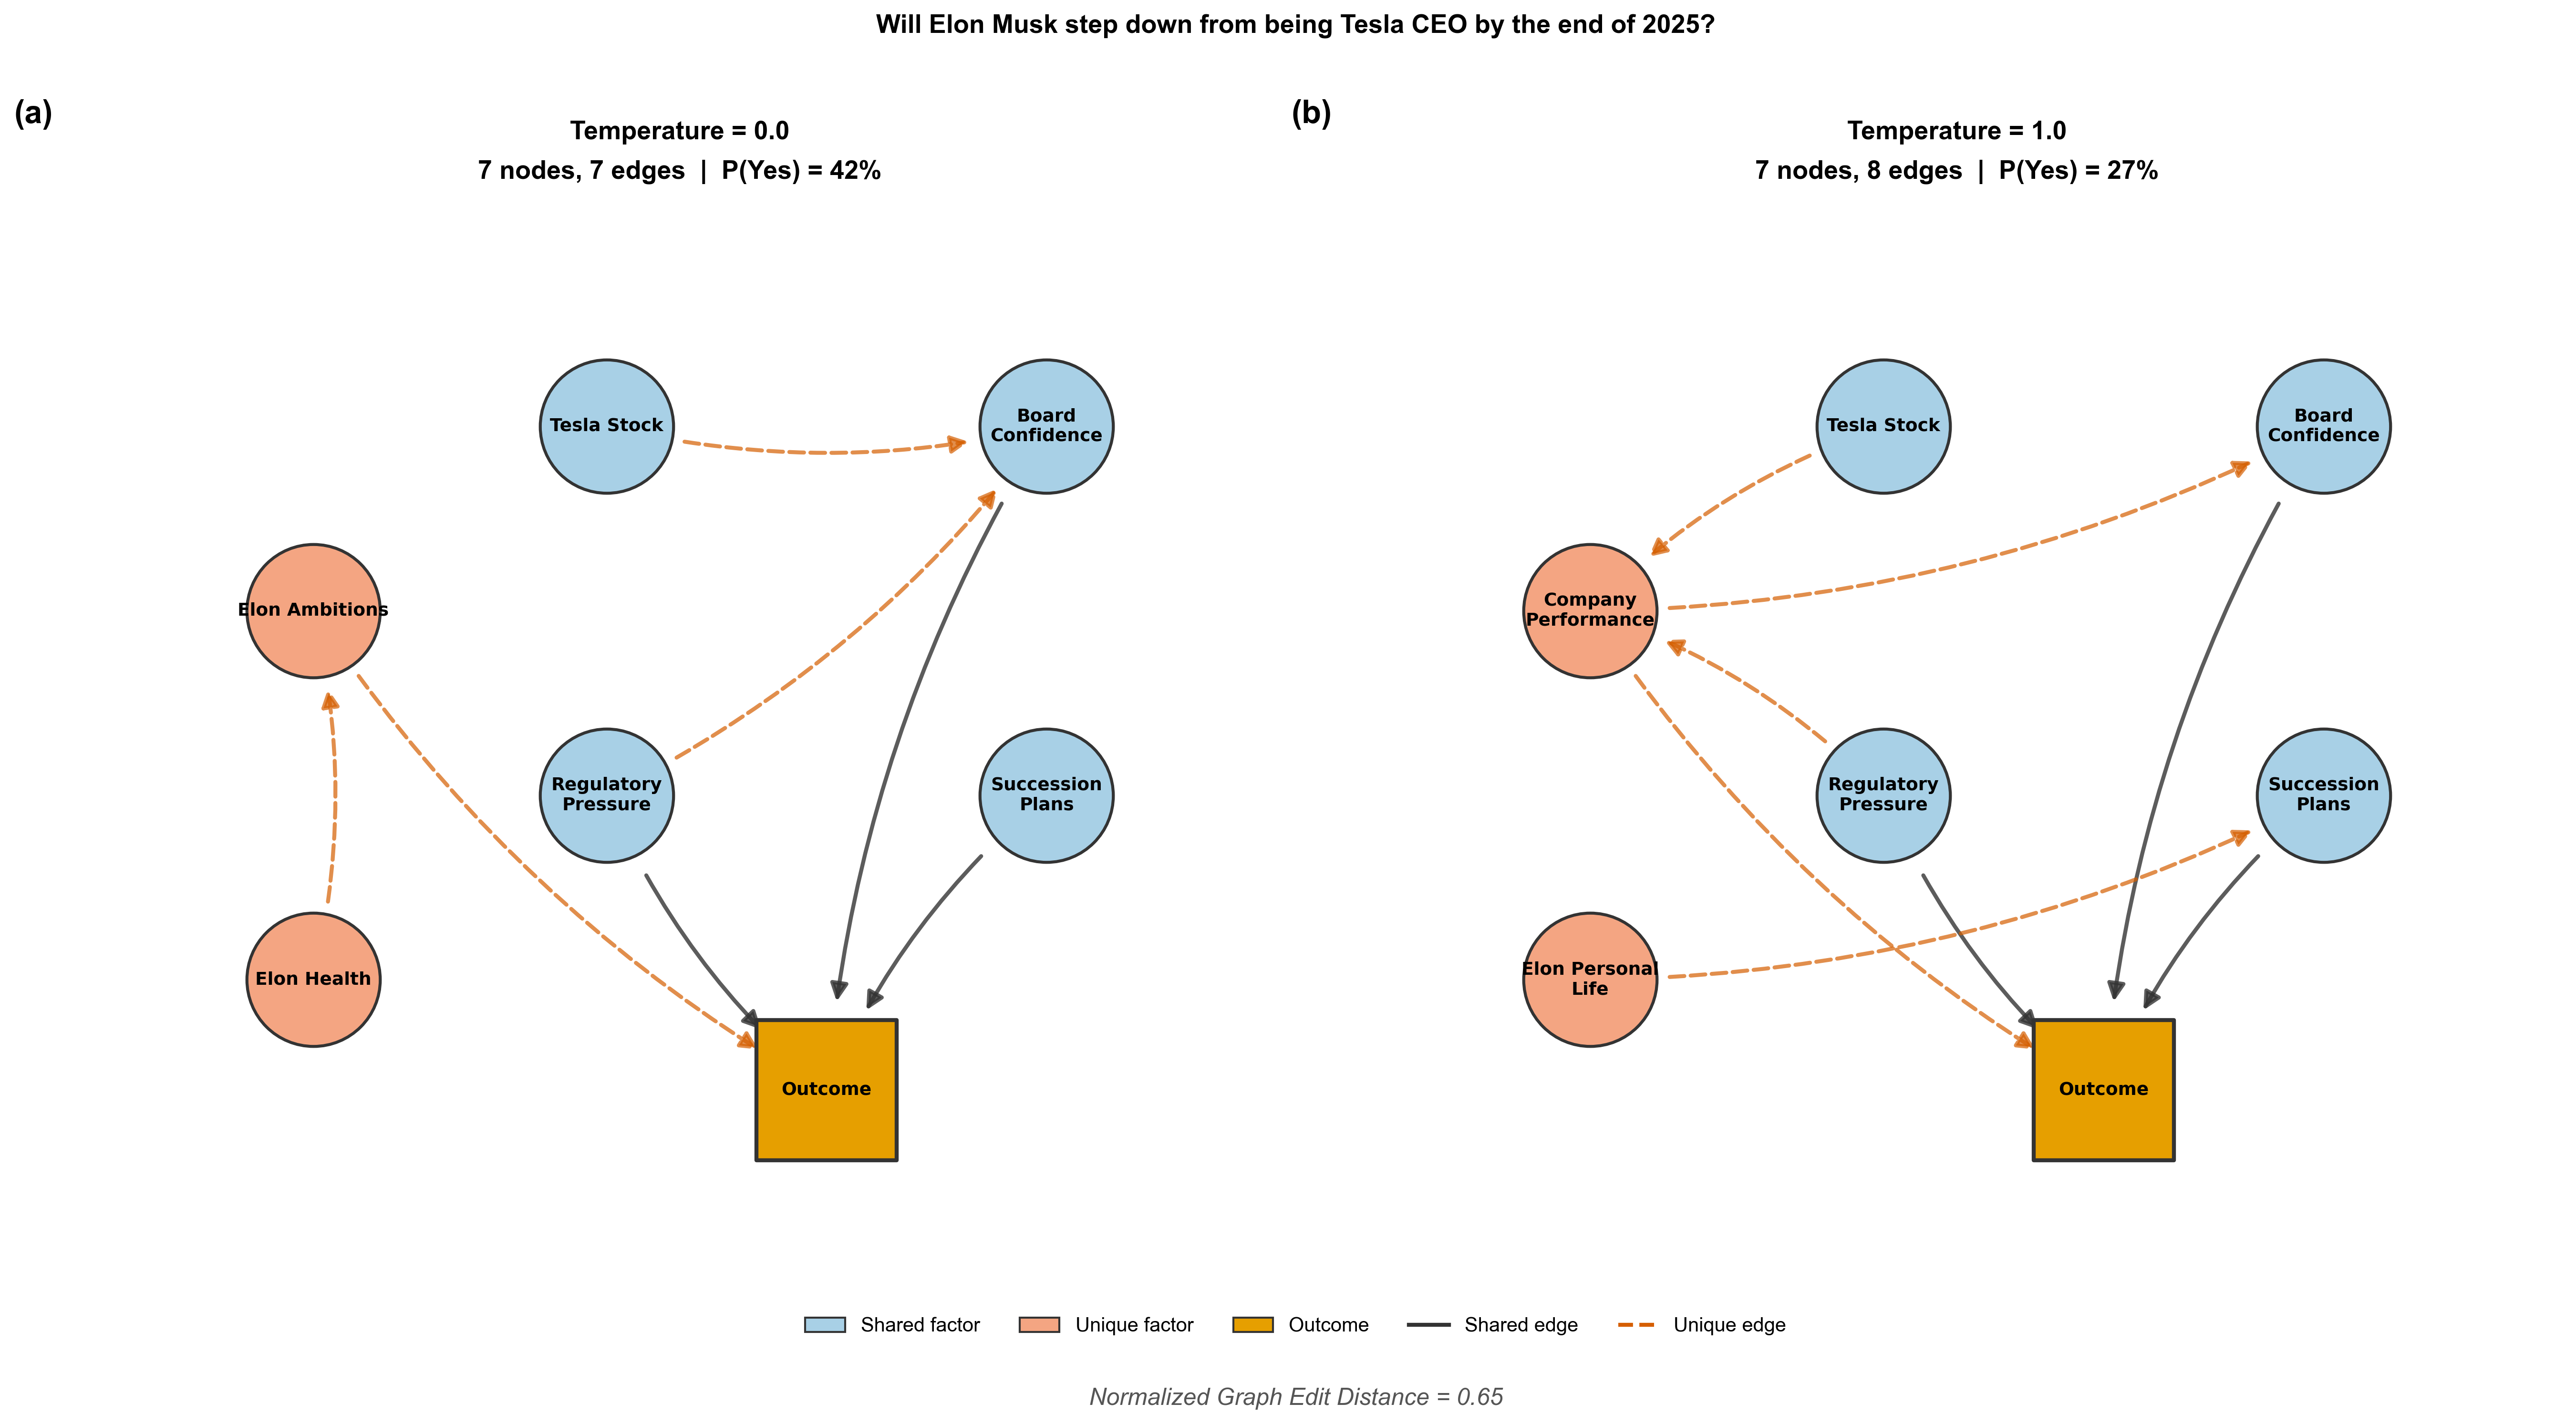
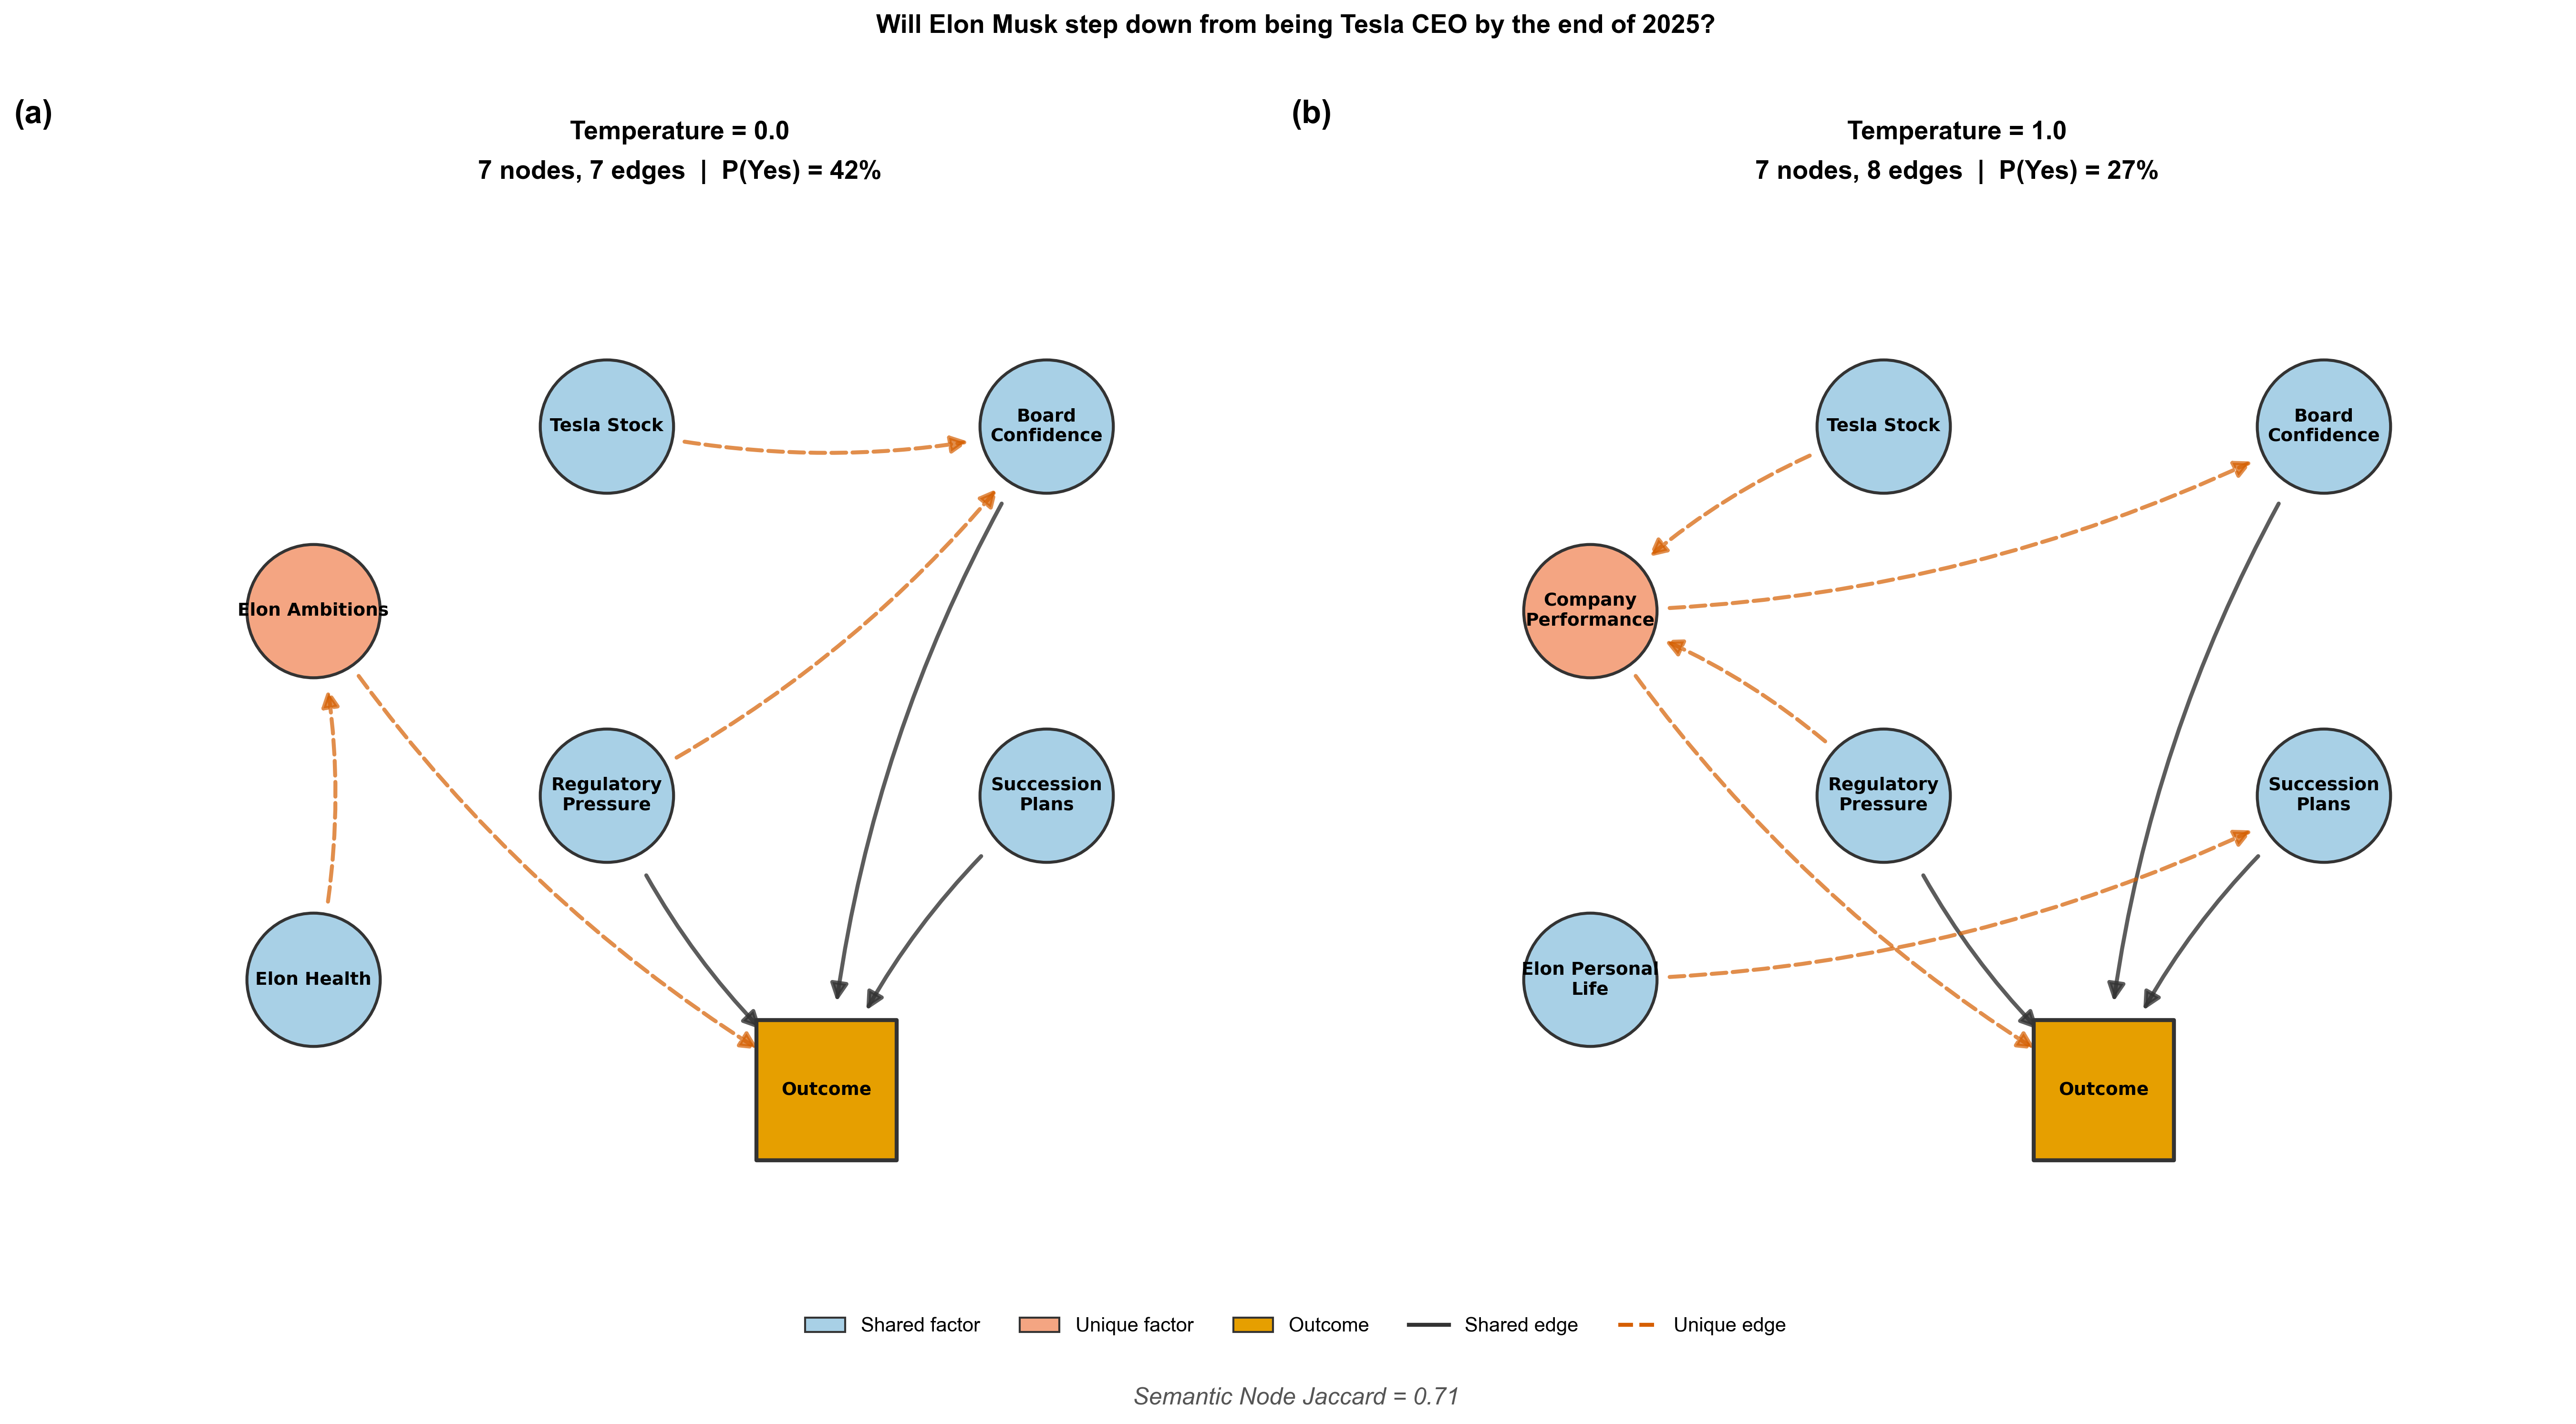
Update temperature figures with semantic matching, fix cache save
Temperature sensitivity: 3-panel figure with (a) Spearman rho of
initial probabilities, (b) semantic node Jaccard, (c) semantic edge
Jaccard across temperature pairs. Replaces nGED with embedding-based
semantic matching.

Temperature exemplar pair: use semantic matching for shared/unique
node coloring. elon_health ↔ elon_personal_life now correctly shown
as shared. Subtitle shows semantic Jaccard instead of nGED.

Fix _save_cache in semantic_graph_match.py: use shutil.move and
correct temp file naming for np.savez_compressed on Windows.

Changed region(s): [[0.0933, 0.6229, 0.1555, 0.7475], [0.591, 0.6229, 0.6532, 0.7475], [0.4355, 0.9655, 0.591, 0.9967]]

diff --git a/forecast_bench/run_temperature_sensitivity.py b/forecast_bench/run_temperature_sensitivity.py
@@ -418,15 +418,51 @@ def _plot_exemplar_pair(temp_data, available_temps, shared_all):
     d_lo = temp_data[T_LO][EXEMPLAR_QID]
     d_hi = temp_data[T_HI][EXEMPLAR_QID]
 
-    # Shared node IDs (excluding outcome)
-    nodes_lo = {n["id"] for n in d_lo["nodes"] if n.get("role") != "outcome"}
-    nodes_hi = {n["id"] for n in d_hi["nodes"] if n.get("role") != "outcome"}
-    shared_nodes = nodes_lo & nodes_hi
+    # Semantic matching for shared nodes
+    from forecast_bench.semantic_graph_match import semantic_jaccard_pair
+    nodes_lo_list = [n for n in d_lo["nodes"] if n.get("role") != "outcome"]
+    nodes_hi_list = [n for n in d_hi["nodes"] if n.get("role") != "outcome"]
 
-    # Compute nGED for subtitle
+    try:
+        sem = semantic_jaccard_pair(
+            nodes_lo_list, nodes_hi_list,
+            edges1=d_lo.get("edges", []), edges2=d_hi.get("edges", []),
+            condition1="temp0.0", condition2="temp1.0",
+            qid=EXEMPLAR_QID,
+        )
+        sem_jaccard = sem["node_jaccard"]
+    except Exception:
+        sem_jaccard = 0.0
+
+    # Build shared set via semantic matching
+    from forecast_bench.semantic_graph_match import (
+        _ensure_embeddings, _cosine_matrix, _hungarian_match,
+        _get_api_key, NODE_EMB_CACHE, NODE_EMB_KEYS_CACHE,
+    )
+    api_key = _get_api_key()
+    texts = {}
+    for n in nodes_lo_list:
+        texts[f"node|{EXEMPLAR_QID}|temp0.0|{n['id']}"] = f"{n['id']}: {n.get('description', n['id'])}"
+    for n in nodes_hi_list:
+        texts[f"node|{EXEMPLAR_QID}|temp1.0|{n['id']}"] = f"{n['id']}: {n.get('description', n['id'])}"
+    idx, mat = _ensure_embeddings(texts, NODE_EMB_CACHE, NODE_EMB_KEYS_CACHE, api_key)
+    v_lo = mat[np.array([idx[f"node|{EXEMPLAR_QID}|temp0.0|{n['id']}"] for n in nodes_lo_list])]
+    v_hi = mat[np.array([idx[f"node|{EXEMPLAR_QID}|temp1.0|{n['id']}"] for n in nodes_hi_list])]
+    sim = _cosine_matrix(v_lo, v_hi)
+    matches = _hungarian_match(sim, threshold=0.7)
+
+    # Map: lo_id -> hi_id for matched pairs
+    shared_nodes_lo = set()
+    shared_nodes_hi = set()
+    for m in matches:
+        shared_nodes_lo.add(nodes_lo_list[m[0]]["id"])
+        shared_nodes_hi.add(nodes_hi_list[m[1]]["id"])
+    # Union for coloring
+    shared_nodes = shared_nodes_lo | shared_nodes_hi
+
+    # Edge comparison (string-based, since edges reference node IDs)
     edges_lo_set = {(e["from"], e["to"]) for e in d_lo["edges"]}
     edges_hi_set = {(e["from"], e["to"]) for e in d_hi["edges"]}
-    nged = normalized_ged(nodes_lo, edges_lo_set, nodes_hi, edges_hi_set)
     shared_edge_set = edges_lo_set & edges_hi_set
 
     # ── Build unified layout from union graph ──
@@ -548,7 +584,7 @@ def _plot_exemplar_pair(temp_data, available_temps, shared_all):
                fontsize=10, frameon=False, bbox_to_anchor=(0.5, -0.02))
 
     # nGED annotation
-    fig.text(0.5, -0.06, f"Normalized Graph Edit Distance = {nged:.2f}",
+    fig.text(0.5, -0.06, f"Semantic Node Jaccard = {sem_jaccard:.2f}",
              ha="center", fontsize=12, fontstyle="italic", color="#555")
 
     plt.tight_layout()

diff --git a/forecast_bench/run_scrambled_full.py b/forecast_bench/run_scrambled_full.py
@@ -294,23 +294,30 @@ def run_scrambled_full(args):
         save_question_json(results_dir, qid, q_output)
 
         # Write CSV rows
-        for result in probe_results:
+        for pi, result in enumerate(probe_results):
             csv_writer.writerow({
                 "question_id": qid,
                 "question_text": question["question"][:200],
-                "source": question.get("source", ""),
+                "condition": "scrambled_full",
                 "initial_probability": initial_prob,
+                "probe_index": pi,
                 "probe_type": result.get("probe_type", ""),
-                "probe_text": result.get("probe_text", "")[:500],
-                "target_type": result.get("target_type", ""),
+                "probe_category": result.get("probe_category", ""),
                 "target_id": result.get("target_id", ""),
-                "importance": result.get("target_importance", 0),
-                "centrality_rank": result.get("target_centrality_rank", 0),
-                "on_critical_path": result.get("target_on_critical_path", False),
+                "target_description": result.get("description", ""),
+                "target_importance": result.get("target_importance", 0),
+                "target_centrality_rank": result.get("target_centrality_rank", 0),
+                "target_on_critical_path": result.get("target_on_critical_path", False),
+                "probe_text": result.get("probe_text", "")[:500],
+                "probe_generated": True,
                 "updated_probability": result.get("updated_probability"),
                 "absolute_shift": result.get("absolute_shift"),
+                "shift_direction": result.get("shift_direction", ""),
                 "success": result.get("success", False),
                 "reasoning": result.get("reasoning", "")[:500],
+                "n_nodes": len(nodes),
+                "n_edges": len(edges),
+                "graph_density": len(edges) / max(1, len(nodes) * (len(nodes) - 1)),
             })
         csv_file.flush()
 